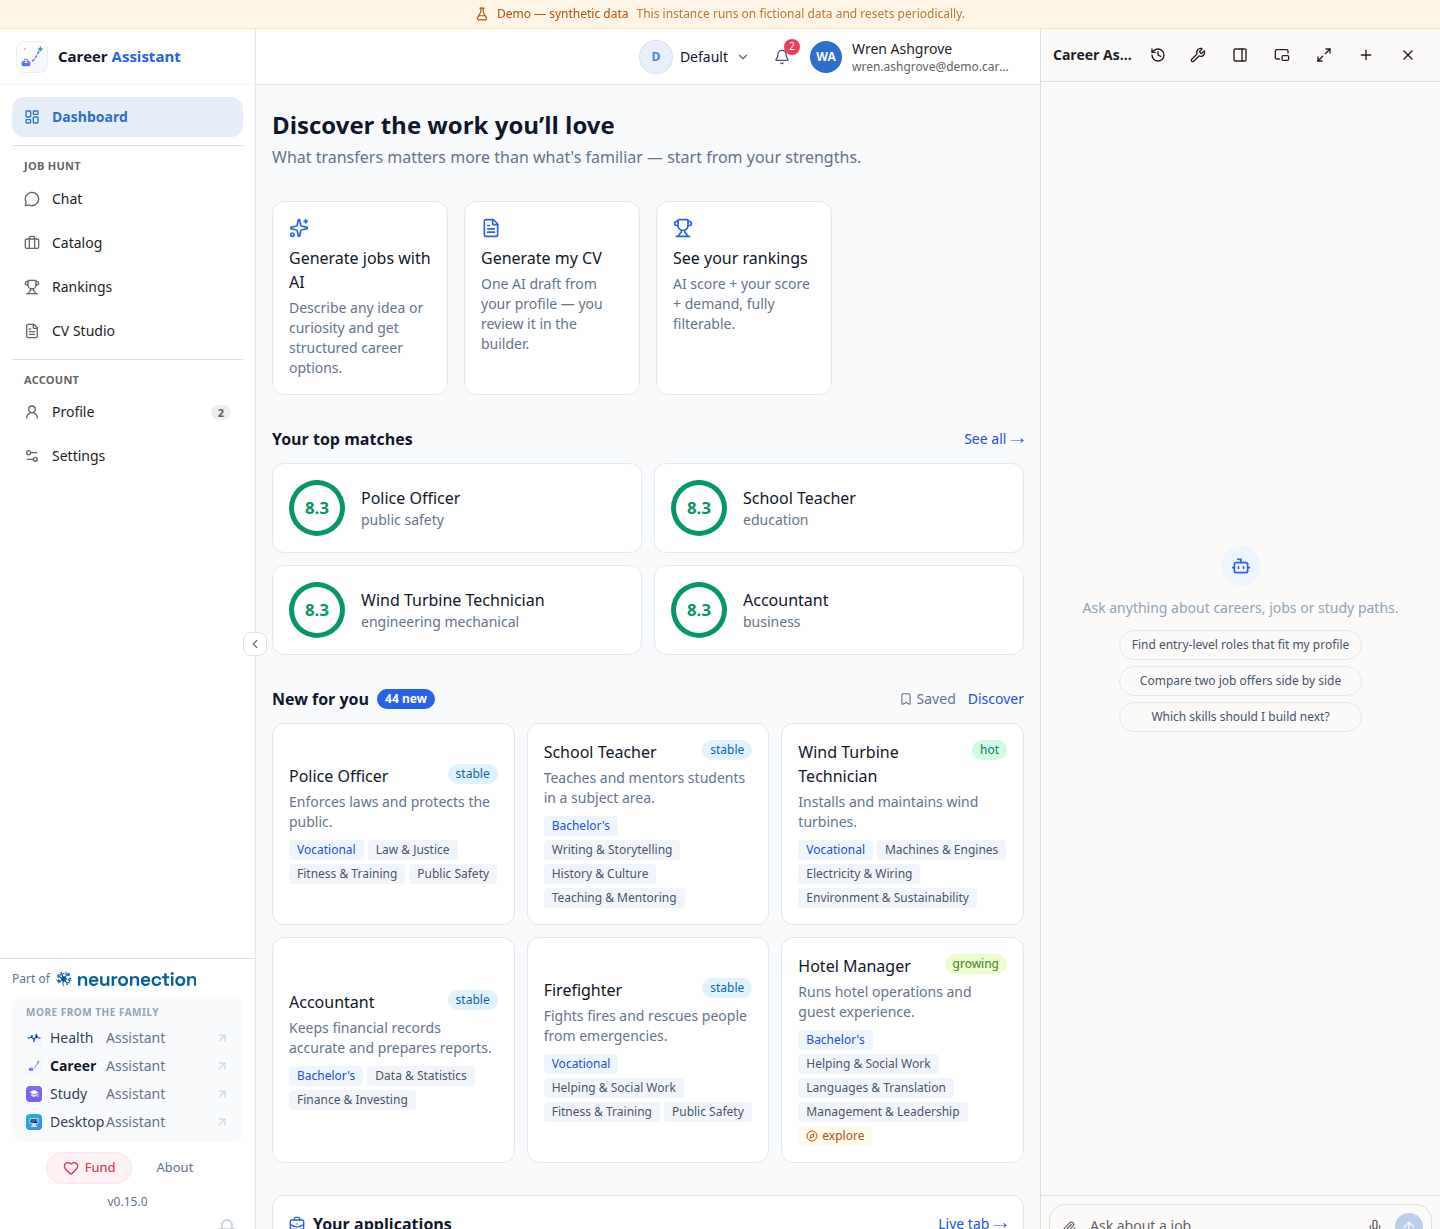
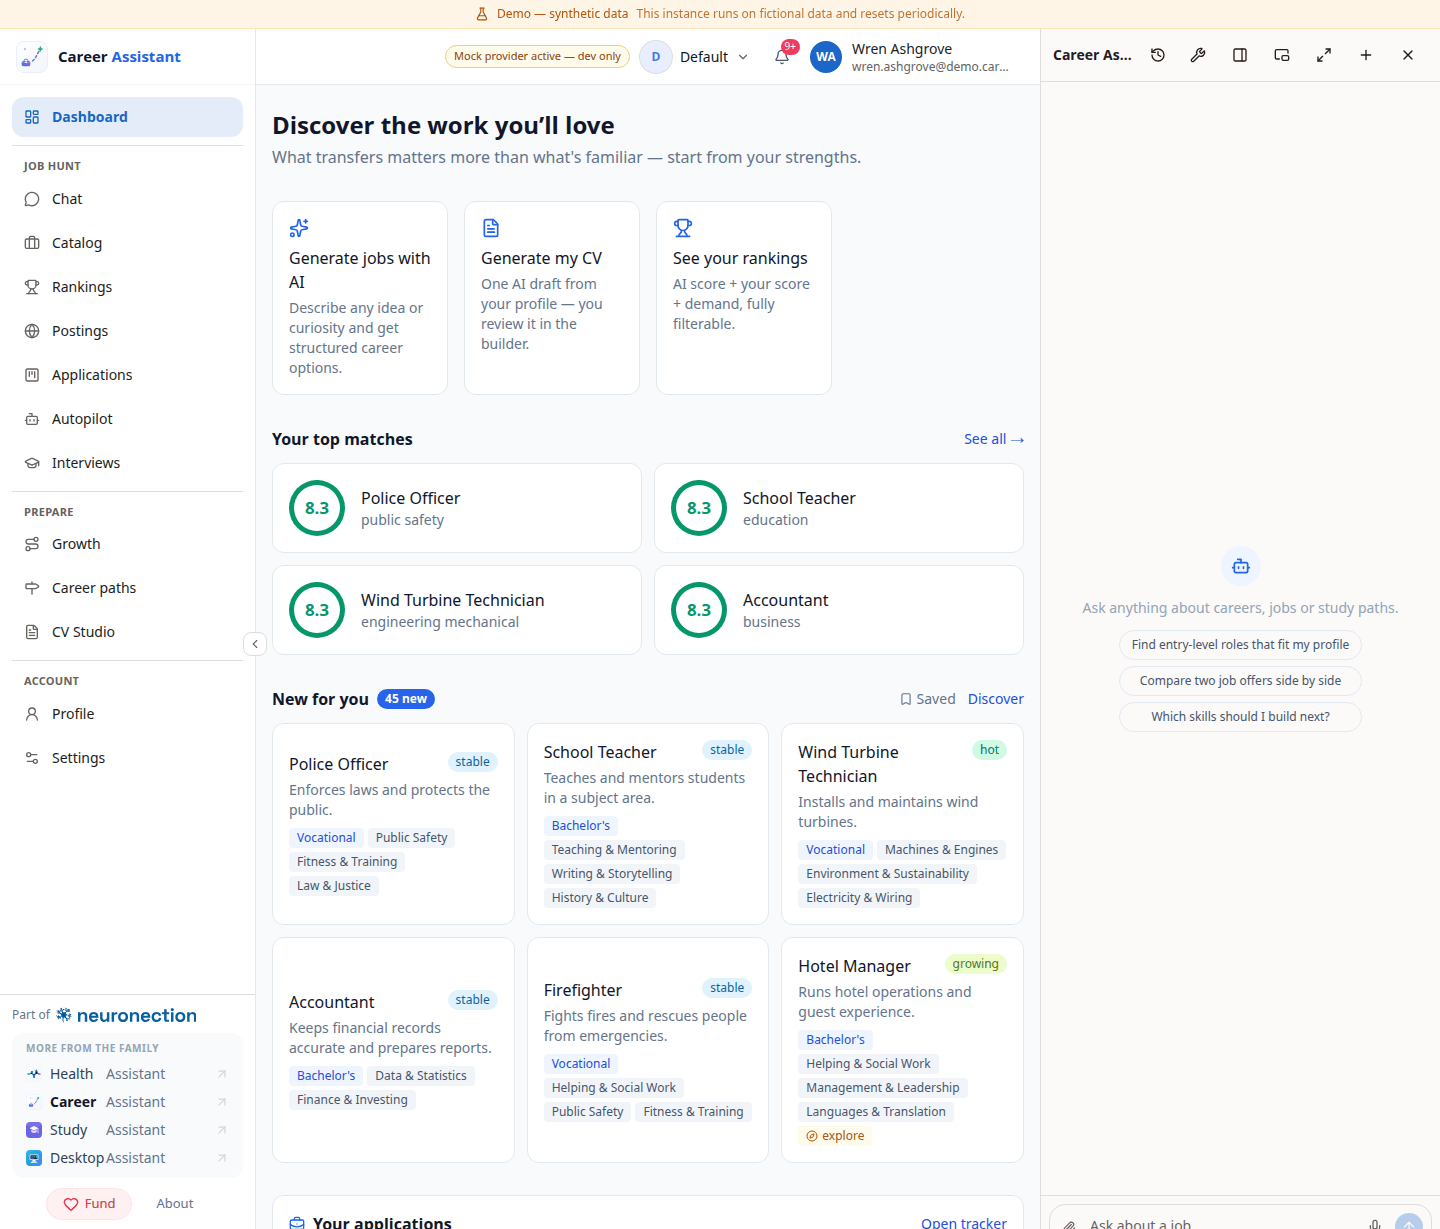
docs(tour): regenerate demo captures; re-vendor the settings map (wave residuals)

diff --git a/docs/SCREENSHOTS.md b/docs/SCREENSHOTS.md
@@ -16,7 +16,7 @@ Welcome to the visual tour of Career Assistant. These reproducible screenshots s
 
 _Sign-in screen — cookie-session auth with CSRF double-submit._
 
-![login desktop](images/login-desktop.png)
+![login — Sign-in screen — cookie-session auth with CSRF double-submit.](images/login-desktop.png)
 
 ## Overview
 
@@ -24,13 +24,13 @@ _Sign-in screen — cookie-session auth with CSRF double-submit._
 
 _Dashboard — career state at a glance with the docked chat._
 
-![dashboard desktop](images/dashboard-desktop.png)
+![dashboard — Dashboard — career state at a glance with the docked chat.](images/dashboard-desktop.png)
 
 ### onboarding
 
 _Onboarding wizard — guided or express start paths._
 
-![onboarding desktop](images/onboarding-desktop.png)
+![onboarding — Onboarding wizard — guided or express start paths.](images/onboarding-desktop.png)
 
 ## Career exploration
 
@@ -38,39 +38,75 @@ _Onboarding wizard — guided or express start paths._
 
 _Job family catalog — the taxonomy tree with AI generation._
 
-![catalog desktop](images/catalog-desktop.png)
+![catalog — Job family catalog — the taxonomy tree with AI generation.](images/catalog-desktop.png)
 
 ### rankings
 
 _Matched rankings — fit scores with the compare tray._
 
-![rankings desktop](images/rankings-desktop.png)
+![rankings — Matched rankings — fit scores with the compare tray.](images/rankings-desktop.png)
 
 ### job-detail
 
 _Job insights — fit score, AI explanations, skill gaps and university paths for Data Scientist._
 
-![job-detail desktop](images/job-detail-desktop.png)
+![job-detail — Job insights — fit score, AI explanations, skill gaps and university paths for Data Scientist.](images/job-detail-desktop.png)
+
+### postings
+
+_Live postings feed from connected sources._
+
+![postings — Live postings feed from connected sources.](images/postings-desktop.png)
+
+### posting-detail
+
+_Posting detail — extracted skills, provenance and fit for a seeded demo posting._
+
+![posting-detail — Posting detail — extracted skills, provenance and fit for a seeded demo posting.](images/posting-detail-desktop.png)
 
 ### universities
 
 _Universities and pathways — funding, deadlines and degree-to-job routes._
 
-![universities desktop](images/universities-desktop.png)
+![universities — Universities and pathways — funding, deadlines and degree-to-job routes.](images/universities-desktop.png)
 
 ## Working life
+
+### autopilot
+
+_Career Autopilot — goal-driven agent searches with budgets._
+
+![autopilot — Career Autopilot — goal-driven agent searches with budgets.](images/autopilot-desktop.png)
+
+### interviews
+
+_Interview prep — posting-grounded mock interviews._
+
+![interviews — Interview prep — posting-grounded mock interviews.](images/interviews-desktop.png)
+
+### growth
+
+_Growth toolkit — roadmaps, radar and check-ins._
+
+![growth — Growth toolkit — roadmaps, radar and check-ins.](images/growth-desktop.png)
+
+### career-paths
+
+_Career paths — every route to a target job as graph, tree or list._
+
+![career-paths — Career paths — every route to a target job as graph, tree or list.](images/career-paths-desktop.png)
 
 ### cv-studio
 
 _CV Studio — three routes to a CV, versions and exports, with rendered page thumbnails._
 
-![cv-studio desktop](images/cv-studio-desktop.png)
+![cv-studio — CV Studio — three routes to a CV, versions and exports, with rendered page thumbnails.](images/cv-studio-desktop.png)
 
 ### cv-builder
 
 _CV builder — live preview of a modern sidebar CV (profile, skills and languages in the sidepanel) with version history._
 
-![cv-builder desktop](images/cv-builder-desktop.png)
+![cv-builder — CV builder — live preview of a modern sidebar CV (profile, skills and languages in the sidepanel) with version history.](images/cv-builder-desktop.png)
 
 ## Your profile
 
@@ -78,7 +114,7 @@ _CV builder — live preview of a modern sidebar CV (profile, skills and languag
 
 _Experience timeline — quantified achievements from the seeded demo persona._
 
-![profile-experience desktop](images/profile-experience-desktop.png)
+![profile-experience — Experience timeline — quantified achievements from the seeded demo persona.](images/profile-experience-desktop.png)
 
 ## AI assistant
 
@@ -86,13 +122,13 @@ _Experience timeline — quantified achievements from the seeded demo persona._
 
 _Assistant chat — role-fit answer with job reference chips (mock AI on the demo instance)._
 
-![chat desktop](images/chat-desktop.png)
+![chat — Assistant chat — role-fit answer with job reference chips (mock AI on the demo instance).](images/chat-desktop.png)
 
 ### chat-proposals
 
 _HITL proposals — the assistant drafts profile edits as review cards with before/after previews._
 
-![chat-proposals desktop](images/chat-proposals-desktop.png)
+![chat-proposals — HITL proposals — the assistant drafts profile edits as review cards with before/after previews.](images/chat-proposals-desktop.png)
 
 ## Settings
 
@@ -100,4 +136,4 @@ _HITL proposals — the assistant drafts profile edits as review cards with befo
 
 _Settings — account pane of the settings shell._
 
-![settings-account desktop](images/settings-account-desktop.png)
+![settings-account — Settings — account pane of the settings shell.](images/settings-account-desktop.png)

diff --git a/CHANGELOG.md b/CHANGELOG.md
@@ -4,6 +4,18 @@ All notable changes to **Career Assistant** are documented here.
 
 ## [Unreleased]
 
+### Changed (wave residuals, 2026-10-25)
+- **Tour screenshots regenerated** against the seeded demo workspace —
+  first capture set including the career-paths explorer and the four
+  beta surfaces (postings, autopilot, interviews, growth); gallery,
+  manifest and the animated tour GIF rebuilt.
+- **Family settings-map re-vendored** from the dev canonical (ADR-0033):
+  career's Account → Appearance locale switcher, the notifications tab
+  channel surfaces, the connectors-hosted MCP server section, and the
+  `tools.translation` alignment note are now canonically recorded
+  (byte-identical re-copy; `verify-wiring.sh` sm probe green).
+
+
 ### Added (career path explorer, 2026-10-24)
 - **Plan 125 — career paths are a destination.** New `/paths` explorer
   (beta, sidebar entry "Career paths"): curated + your own paths +
